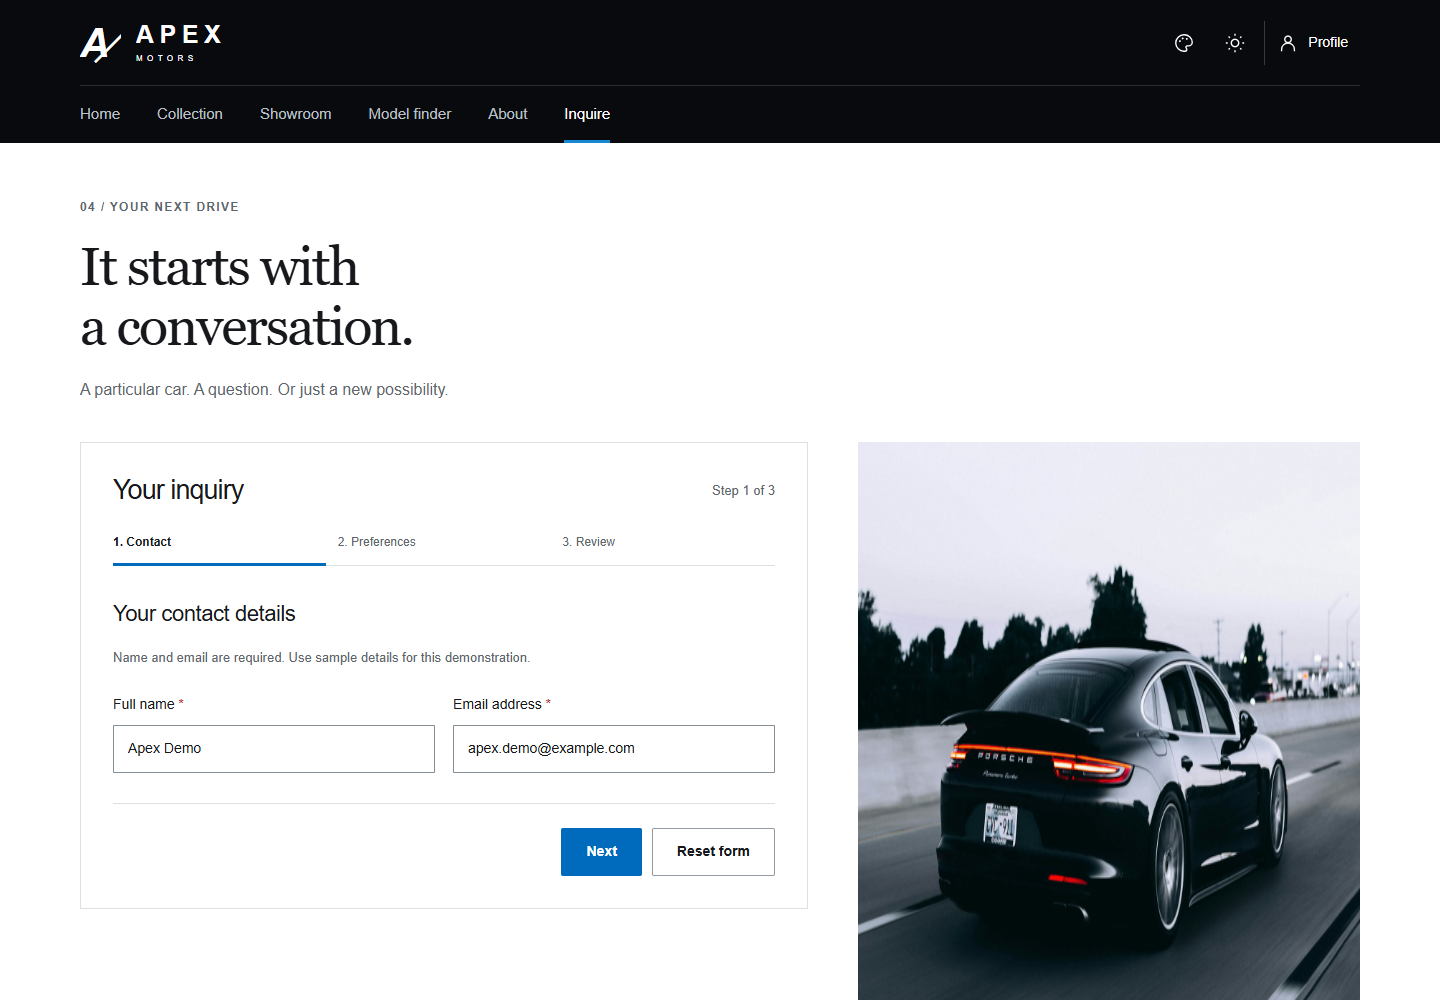
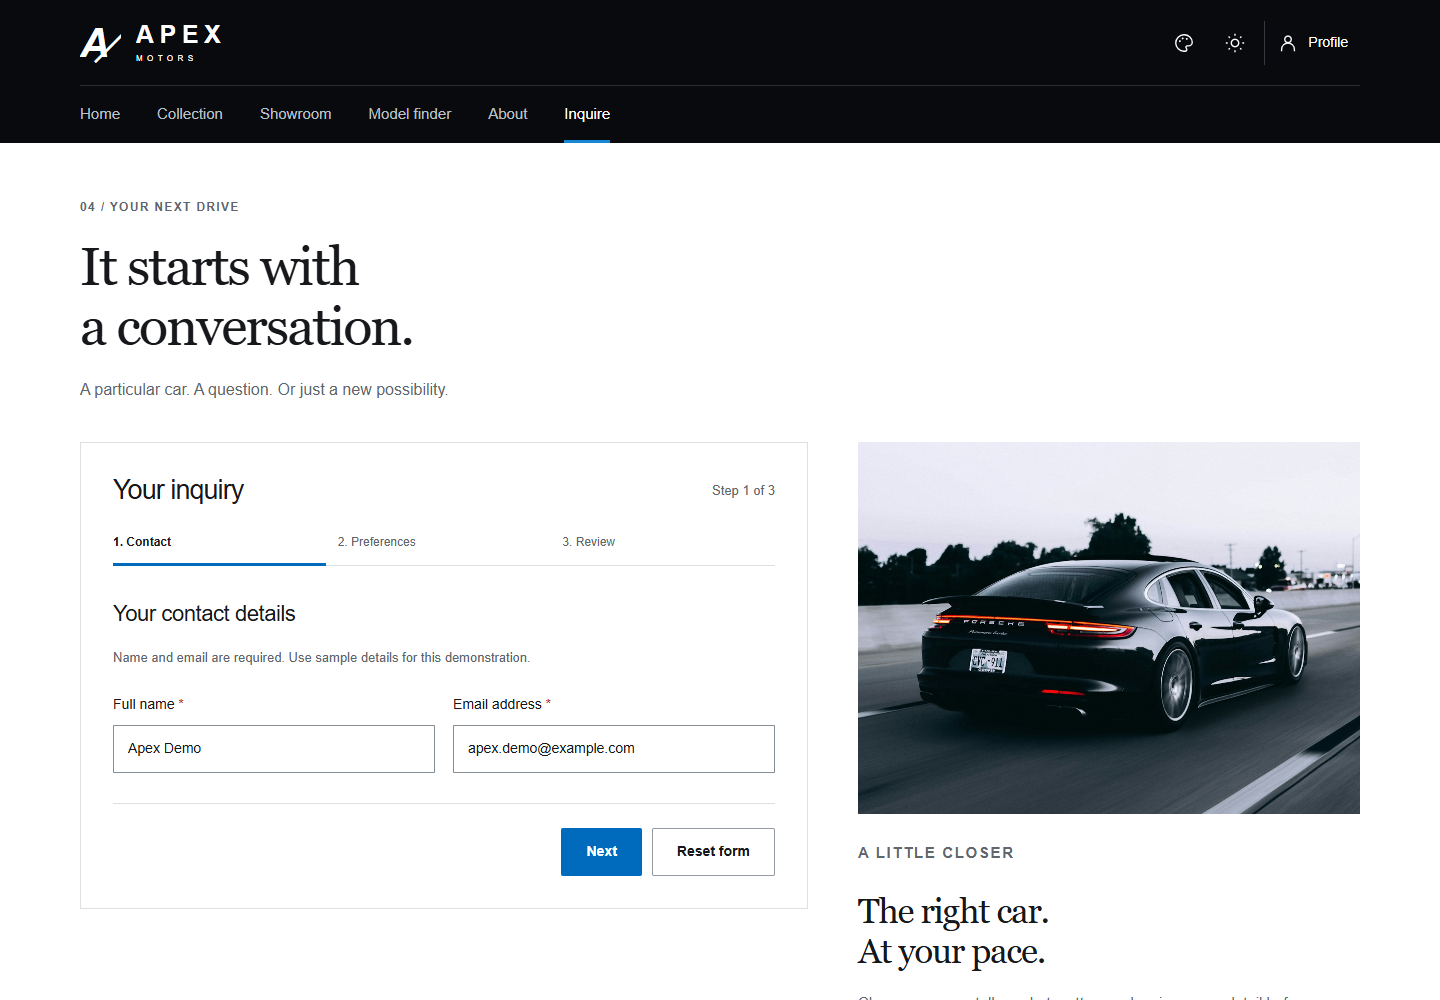
Preserve inquiry photo proportions and point reviewers to the final project

Changed region(s): [[0.5938, 0.496, 0.9688, 1.0]]

diff --git a/final-project/inquiry.html b/final-project/inquiry.html
@@ -13,7 +13,7 @@
   <link rel="stylesheet" href="css/style.css" />
   <link rel="stylesheet" href="css/enhancements.css" />
   <link rel="stylesheet" href="css/search.css" />
-  <link rel="stylesheet" href="css/final.css?v=appearance-1" />
+  <link rel="stylesheet" href="css/final.css?v=image-fit-1" />
   <script src="vendor/jquery-4.0.0.min.js" defer></script>
 <script src="js/data.js" defer></script>
 <script src="js/site.js?v=appearance-1" defer></script>
@@ -302,8 +302,8 @@
             <div class="inquiry-image">
               <img
                 src="images/car-07.jpg"
-                width="1000"
-                height="650"
+                width="1400"
+                height="933"
                 alt="Porsche Panamera, viewed from the rear on an open road"
               />
             </div>

diff --git a/final-project/css/final.css b/final-project/css/final.css
@@ -13,6 +13,8 @@
 .appearance-panel .text-button { min-height: 44px; }
 .appearance-note { font-size: 12px; line-height: 1.5; color: var(--muted); margin-top: 12px; }
 .javascript-notice { padding-block: 18px; color: var(--error); }
+.inquiry-image { overflow: hidden; }
+.inquiry-image img { width: 100%; height: auto; aspect-ratio: inherit; object-fit: cover; }
 .footer-links { flex-wrap: wrap; }
 .footer-bottom { gap: 16px; }
 .footer-bottom > p:last-child { font-size: 12px; color: #a5adb5; }

diff --git a/final-project/about.html b/final-project/about.html
@@ -13,7 +13,7 @@
   <link rel="stylesheet" href="css/style.css" />
   <link rel="stylesheet" href="css/enhancements.css" />
   <link rel="stylesheet" href="css/search.css" />
-  <link rel="stylesheet" href="css/final.css?v=appearance-1" />
+  <link rel="stylesheet" href="css/final.css?v=image-fit-1" />
   <script src="vendor/jquery-4.0.0.min.js" defer></script>
 <script src="js/data.js" defer></script>
 <script src="js/site.js?v=appearance-1" defer></script>

diff --git a/final-project/account.html b/final-project/account.html
@@ -13,7 +13,7 @@
   <link rel="stylesheet" href="css/style.css" />
   <link rel="stylesheet" href="css/enhancements.css" />
   <link rel="stylesheet" href="css/search.css" />
-  <link rel="stylesheet" href="css/final.css?v=appearance-1" />
+  <link rel="stylesheet" href="css/final.css?v=image-fit-1" />
   <script src="vendor/jquery-4.0.0.min.js" defer></script>
 <script src="js/data.js" defer></script>
 <script src="js/site.js?v=appearance-1" defer></script>

diff --git a/final-project/index.html b/final-project/index.html
@@ -13,7 +13,7 @@
   <link rel="stylesheet" href="css/style.css" />
   <link rel="stylesheet" href="css/enhancements.css" />
   <link rel="stylesheet" href="css/search.css" />
-  <link rel="stylesheet" href="css/final.css?v=appearance-1" />
+  <link rel="stylesheet" href="css/final.css?v=image-fit-1" />
   <script src="vendor/jquery-4.0.0.min.js" defer></script>
 <script src="js/data.js" defer></script>
 <script src="js/site.js?v=appearance-1" defer></script>

diff --git a/final-project/inventory.html b/final-project/inventory.html
@@ -13,7 +13,7 @@
   <link rel="stylesheet" href="css/style.css" />
   <link rel="stylesheet" href="css/enhancements.css" />
   <link rel="stylesheet" href="css/search.css" />
-  <link rel="stylesheet" href="css/final.css?v=appearance-1" />
+  <link rel="stylesheet" href="css/final.css?v=image-fit-1" />
   <script src="vendor/jquery-4.0.0.min.js" defer></script>
 <script src="js/data.js" defer></script>
 <script src="js/site.js?v=appearance-1" defer></script>

diff --git a/final-project/profile.html b/final-project/profile.html
@@ -13,7 +13,7 @@
   <link rel="stylesheet" href="css/style.css" />
   <link rel="stylesheet" href="css/enhancements.css" />
   <link rel="stylesheet" href="css/search.css" />
-  <link rel="stylesheet" href="css/final.css?v=appearance-1" />
+  <link rel="stylesheet" href="css/final.css?v=image-fit-1" />
   <script src="vendor/jquery-4.0.0.min.js" defer></script>
 <script src="js/data.js" defer></script>
 <script src="js/site.js?v=appearance-1" defer></script>

diff --git a/final-project/research.html b/final-project/research.html
@@ -13,7 +13,7 @@
   <link rel="stylesheet" href="css/style.css" />
   <link rel="stylesheet" href="css/enhancements.css" />
   <link rel="stylesheet" href="css/search.css" />
-  <link rel="stylesheet" href="css/final.css?v=appearance-1" />
+  <link rel="stylesheet" href="css/final.css?v=image-fit-1" />
   <script src="vendor/jquery-4.0.0.min.js" defer></script>
 <script src="js/data.js" defer></script>
 <script src="js/site.js?v=appearance-1" defer></script>

diff --git a/final-project/showroom.html b/final-project/showroom.html
@@ -13,7 +13,7 @@
   <link rel="stylesheet" href="css/style.css" />
   <link rel="stylesheet" href="css/enhancements.css" />
   <link rel="stylesheet" href="css/search.css" />
-  <link rel="stylesheet" href="css/final.css?v=appearance-1" />
+  <link rel="stylesheet" href="css/final.css?v=image-fit-1" />
   <script src="vendor/jquery-4.0.0.min.js" defer></script>
 <script src="js/data.js" defer></script>
 <script src="js/site.js?v=appearance-1" defer></script>

diff --git a/README.md b/README.md
@@ -1,5 +1,15 @@
 # Apex Motors
 
+## Final project
+
+The final project is in **[final-project/](final-project/)** and continues the team's Apex Motors topic. It has eight connected pages, local account/profile and inquiry simulation, search and filters, a showroom, saved cars, persistent appearance settings and the NHTSA vehicle API.
+
+- **[Open the final website](https://vertex-blip.github.io/Car-dealership-website/final-project/)**
+- **[View the final project source](https://github.com/Vertex-blip/Car-dealership-website/tree/main/final-project)**
+- [Final project documentation and presentation plan](final-project/README.md)
+
+## Earlier assignments
+
 Responsive dealership website by Team Apex Motors, Group SE-2507. The repository contains the framework-free Assignment 1/2 site at its root, Assignment 3 in `assignment3-bootstrap/`, Assignment 4 in `assignment4-javascript/`, and the plain HTML/CSS/JavaScript Assignment 5 in `assignment5-dom/`.
 
 ## Live websites
